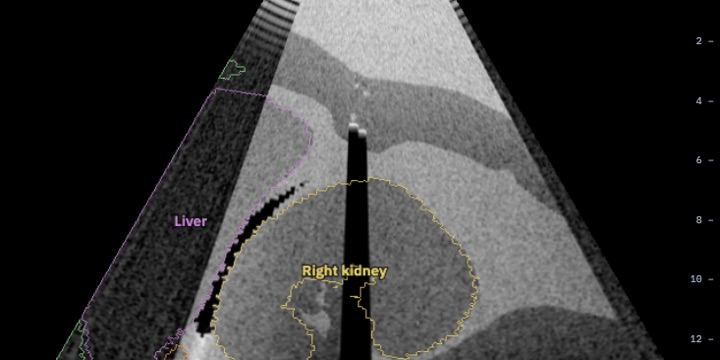
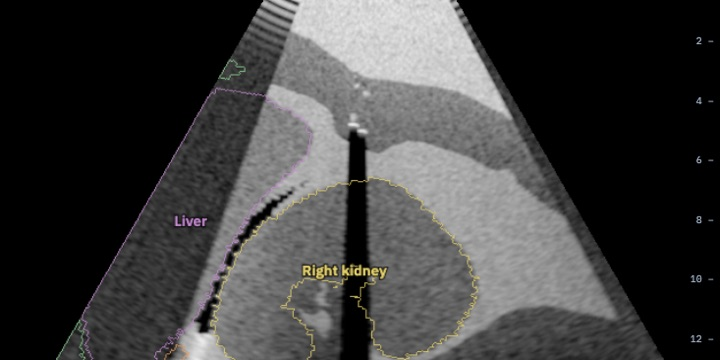
Tune the ultrasound look: lateral beam-width blur, stronger interfaces, brighter fat, full speckle on solid organs
Checked by eye on RUQ (liver over right kidney, Morison stripe, rib and lung
shadows), LUQ (spleen over left kidney), pelvic and subxiphoid views.

diff --git a/site/js/usrender.js b/site/js/usrender.js
@@ -8,7 +8,7 @@ export const FAN = { sectorDeg: 60, radiusMm: 50, lines: 192, samples: 384, freq
 
 // Tuning constants (Task 9 sets these by eye against textbook FAST images).
 const SOFT_A = 0.5;      // dB/cm/MHz the time-gain compensation assumes
-const SPEC = 0.3;        // specular gain on interface echoes
+const SPEC = 0.6;        // specular gain on interface echoes
 const REF = 0.25;        // echo amplitude shown as full white at 0 dB gain
 const DR = 50;           // displayed dynamic range, dB
 const REVERB = 0.5;      // each reverberation's amplitude relative to the one before
@@ -65,10 +65,11 @@ export function renderFan(vol, frame, { depthMm, gainDb = 0, amounts, lut, tissu
   const gain = Math.pow(10, gainDb / 20);
   const tgc = new Float32Array(samples);
   for (let k = 0; k < samples; k++) tgc[k] = gain * Math.pow(10, (2 * SOFT_A * f * (sampleDepth(k, depthMm) / 10)) / 20);
-  const lin = new Float32Array(samples);
+  const all = new Float32Array(lines * samples); // linear echo, before lateral blur and compression
 
   for (let i = 0; i < lines; i++) {
     const { origin: o, dir } = fanRay(frame, i, lines);
+    const lin = all.subarray(i * samples, (i + 1) * samples);
     let I = 1, zPrev = -1, gasAt = -1, gasE = 0;
     for (let k = 0; k < samples; k++) {
       const d = sampleDepth(k, depthMm);
@@ -108,11 +109,18 @@ export function renderFan(vol, frame, { depthMm, gainDb = 0, amounts, lut, tissu
         for (let j = -1; j <= 2; j++) if (kk + j < samples) lin[kk + j] += (amp * (j === 0 ? 1 : 0.6) * g0) / tgc[kk + j];
       }
     }
-    // Pulse length: a short blur along the beam, then TGC, gain and log compression.
+    // Pulse length: a short blur along the beam.
     for (let k = 0, prev = lin[0]; k < samples; k++) {
       const cur = lin[k], next = k + 1 < samples ? lin[k + 1] : cur;
-      const v = ((prev + 2 * cur + next) / 4) * tgc[k];
+      lin[k] = (prev + 2 * cur + next) / 4;
       prev = cur;
+    }
+  }
+  // Beam width: lateral resolution is coarser than axial, so speckle smears across neighbouring lines.
+  for (let i = 0; i < lines; i++) {
+    const a = all.subarray(Math.max(0, i - 1) * samples), c = all.subarray(i * samples), b = all.subarray(Math.min(lines - 1, i + 1) * samples);
+    for (let k = 0; k < samples; k++) {
+      const v = ((a[k] + 2 * c[k] + b[k]) / 4) * tgc[k];
       const g = v > 0 ? 1 + (20 * Math.log10(v / REF)) / DR : 0;
       out[i * samples + k] = g <= 0 ? 0 : g >= 1 ? 255 : Math.round(g * 255);
     }

diff --git a/tests/usrender.test.js b/tests/usrender.test.js
@@ -123,3 +123,17 @@ test("labelsOut receives the structure at each sample, 0 outside the volume", ()
   assert.equal(labs[CENTER * FAN.samples + 10], 1);
   assert.equal(labs[CENTER * FAN.samples + FAN.samples - 1], 0);
 });
+
+test("lateral resolution: speckle correlates between neighbouring lines, not distant ones", () => {
+  const out = render(box());
+  const corr = (a, b) => {
+    const xs = [], ys = [];
+    for (let k = 40; k < 300; k++) { xs.push(out[a * FAN.samples + k]); ys.push(out[b * FAN.samples + k]); }
+    const m = (v) => v.reduce((s, x) => s + x, 0) / v.length, mx = m(xs), my = m(ys);
+    let sxy = 0, sxx = 0, syy = 0;
+    xs.forEach((x, i) => { sxy += (x - mx) * (ys[i] - my); sxx += (x - mx) ** 2; syy += (ys[i] - my) ** 2; });
+    return sxy / Math.sqrt(sxx * syy);
+  };
+  assert.ok(corr(CENTER, CENTER + 1) > 0.4, `${corr(CENTER, CENTER + 1)}`);
+  assert.ok(Math.abs(corr(CENTER, CENTER + 12)) < 0.2, `${corr(CENTER, CENTER + 12)}`);
+});
